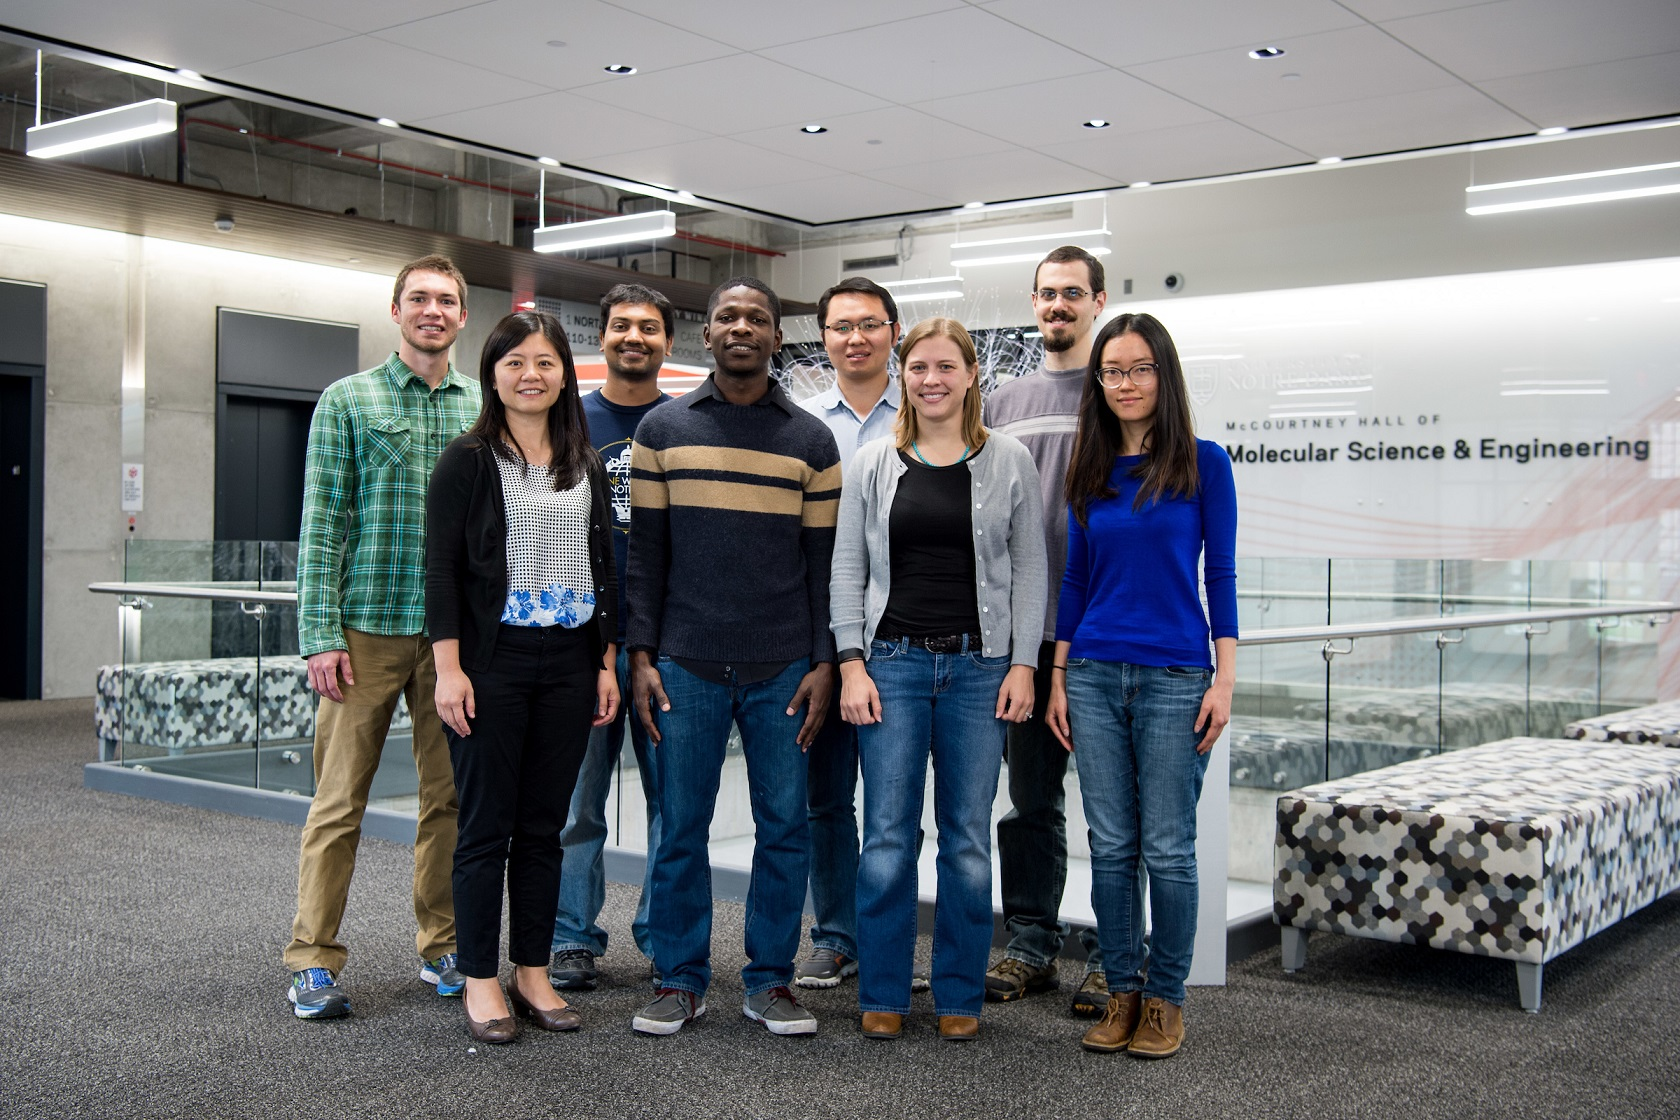
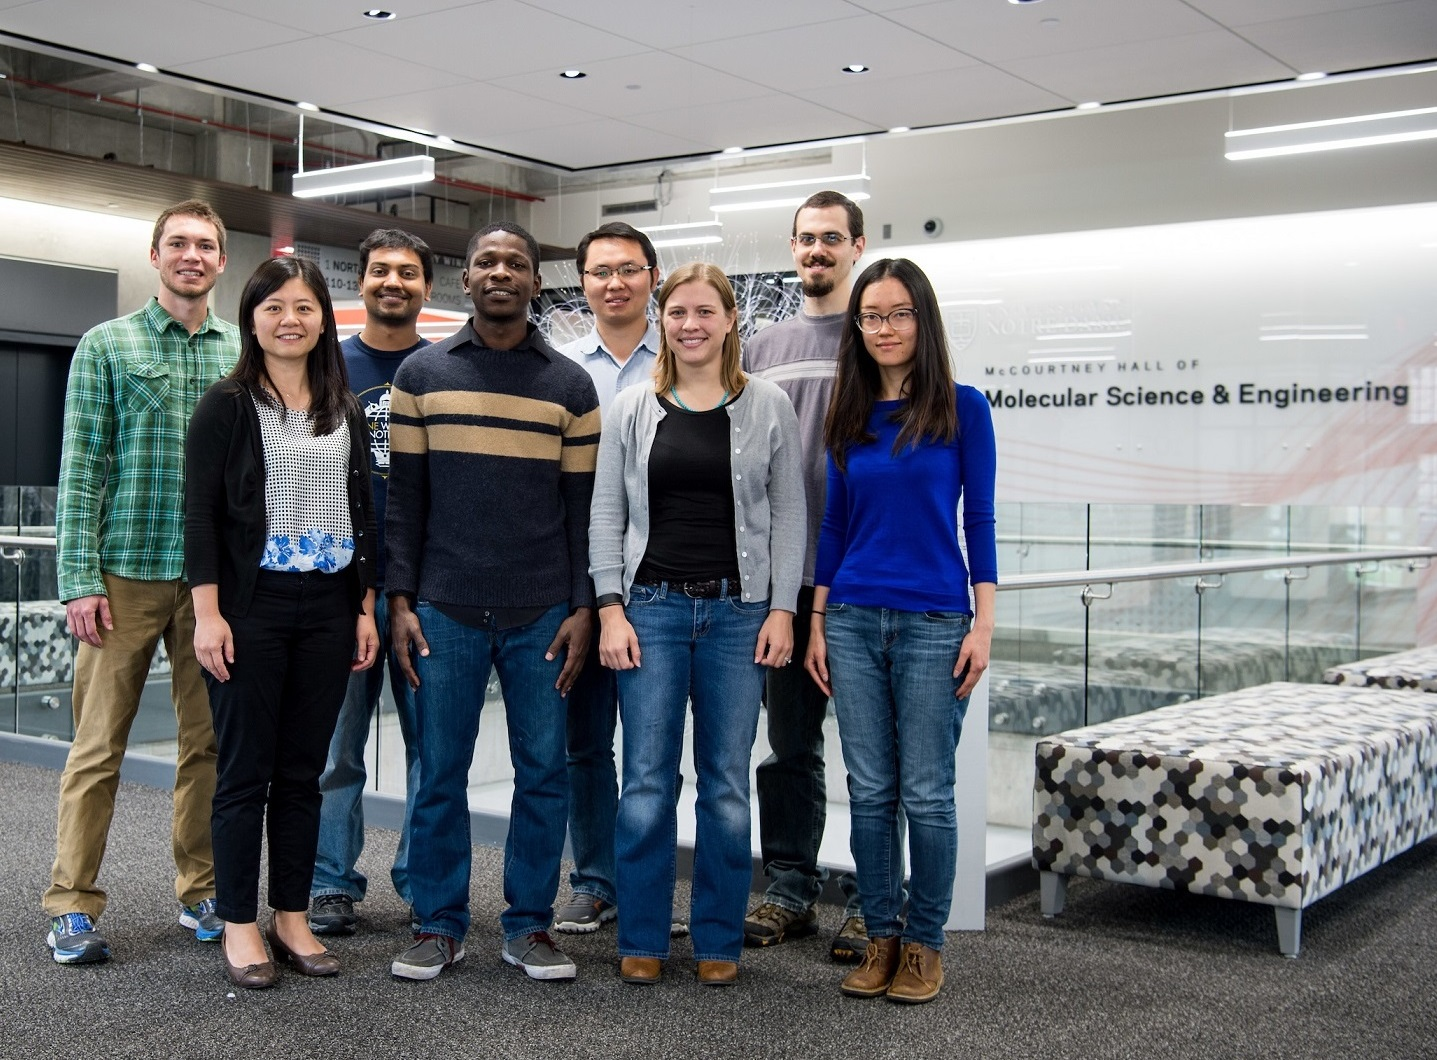
v16 newsbox

diff --git a/css/guogrpcss.css b/css/guogrpcss.css
@@ -113,10 +113,21 @@ a	{
 #grppic	{
 	background-image: url(../images/group-photo.JPG);
 	height: 100vh;
-	width: 100 vw;
+	width: 100vw;
 	border: 1px solid black;
 	background-attachment: fixed; 
 	background-size: cover;
+}
+
+#newsbox	{
+	float: right;
+	padding-top: 10px;
+	margin-top: 35vh;
+	margin-right: 2vw;
+	height: 60vh;
+	width: 60vh;
+	background-color: black;
+	opacity: 0.5;
 }
 
 .sidebyside	{
@@ -137,6 +148,7 @@ a	{
 	min-width: 1220px;
 	position: fixed;
 	z-index: 1;
+	overflow: auto;
 }
 
 #footer	{
@@ -149,4 +161,11 @@ a	{
 	opacity: 0.7;
 	color: white;
 	text-align: center;
+}
+
+#labnews {
+	text-align: center;
+	font-size: 20px;
+	font-weight: bold;	
+	color: white;
 }

diff --git a/index - Copy.html b/index - Copy.html
@@ -33,11 +33,9 @@
 </div>
 <!-- header ends here -->
 <!-- body starts here -->
-<!-- Group photo on the cover page -->
 <div id = "grppic">
-	<div id = "newsbox">
-		<p id = "labnews">Recent</p>
-	</div>
+	
+	<!-- Group photo on the cover page -->
 </div>
 
 </body>

diff --git a/css/cont_css.css b/css/cont_css.css
@@ -5,7 +5,7 @@ body::after	{
 	background-attachment:fixed;
 	background-size:cover;
 	opacity:0.2;
-	top:0;
+	top: 0;
 	left: 0;
 	bottom: 0;
 	right: 0;
